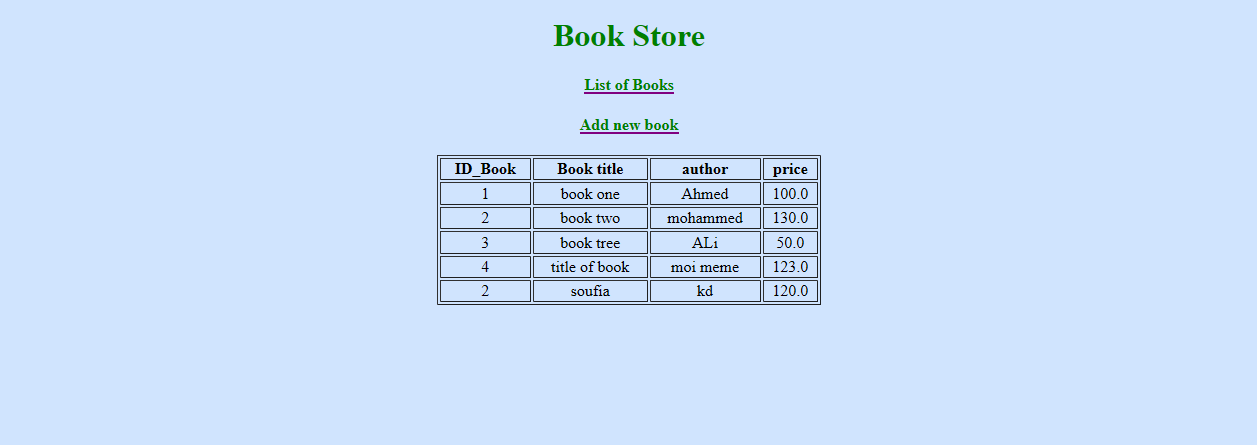
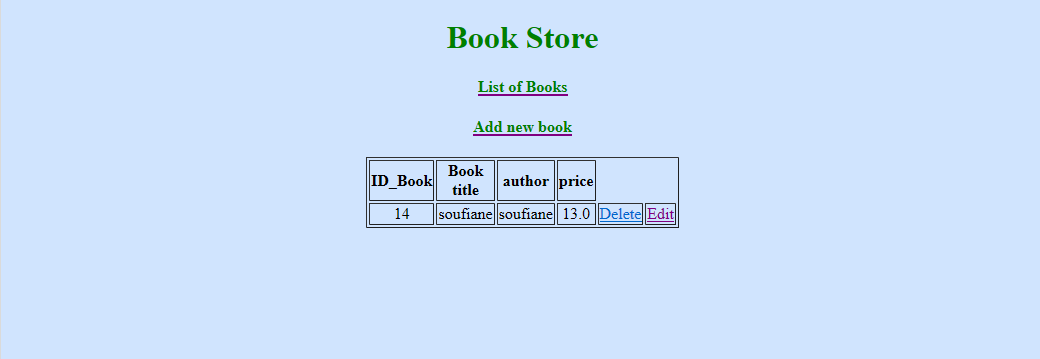
Last Commit

Changed region(s): [[0.3385, 0.337, 0.6769, 0.7047], [0.4308, 0.0613, 0.5846, 0.3064]]

diff --git a/WebContent/css/style.css b/WebContent/css/style.css
@@ -1,26 +1,22 @@
-
-body
-{
-background-color:#d0e4fe;
-align-content: center;
-text-align: center;
-align-self: center;
-}
-.title{
-	color:green;
-
-}
-.subtittle{
-	color:green;
-}
-table{
-	margin-left: auto;
-    margin-right: auto;
- 
+body {
+	background-color: #d0e4fe;
+	align-content: center;
 	text-align: center;
-	border:1;
-	width: 30%;
-	
+	align-self: center;
 }
 
- 
+.title {
+	color: green;
+}
+
+.subtittle {
+	color: green;
+}
+
+table {
+	margin-left: auto;
+	margin-right: auto;
+	text-align: center;
+	border: 1;
+	width: 30%;
+}

diff --git a/src/com/books/ServletController.java b/src/com/books/ServletController.java
@@ -1,14 +1,20 @@
+/*
+############################################################
+#             ELAAMRANI SOUFIANE                           #
+#      DATABASE(books.sql) in the same project file        #
+#    first CRUD application with MySQL,JSP,Servlet,EL      #
+# 														   #
+############################################################
+*/
+
 package com.books;
+
 import com.dao.*;
 
 import java.io.IOException;
-import java.io.PrintWriter;
 import java.sql.SQLException;
-import java.util.ArrayList;
-
 import javax.servlet.RequestDispatcher;
 import javax.servlet.ServletException;
-import javax.servlet.annotation.WebServlet;
 import javax.servlet.http.HttpServlet;
 import javax.servlet.http.HttpServletRequest;
 import javax.servlet.http.HttpServletResponse;
@@ -22,35 +28,40 @@ public class ServletController extends HttpServlet {
 	private BookDao bookDao;
 
 	/**
-	 * @throws SQLException 
-	 * @throws ClassNotFoundException 
+	 * @throws SQLException
+	 * @throws ClassNotFoundException
 	 * @see HttpServlet#HttpServlet()
 	 */
 
 	public ServletController() throws SQLException, ClassNotFoundException {
 		super();
 		bookDao = new BookDao();
-		//booksList.add(new Book(3, "soui", "afd", 133));
 	}
 
 	protected void doGet(HttpServletRequest request, HttpServletResponse response)
 			throws ServletException, IOException {
-		/*
-		 * PrintWriter out = response.getWriter(); String name=
-		 * request.getParameter("name"); out.println("Welcome "+name);
-		 */
 		String action = request.getPathInfo();
 		System.out.println(action);
 		if (action.equals("/new")) {
 			getPageNewAdd(request, response);
 
-		}else if (action.equals("/delete")) {
-			deleteBook(Integer.parseInt(request.getParameter("id")),request,response);
-		} 
+		} else if (action.equals("/delete")) {
+			deleteBook(Integer.parseInt(request.getParameter("id")), request, response);
+		} else if (action.equals("/update")) {
+			try {
+				request.setAttribute("book", bookDao.getItembyID(Integer.parseInt(request.getParameter("id"))));
+			} catch (NumberFormatException | ClassNotFoundException | SQLException e) {
+				// TODO Auto-generated catch block
+				e.printStackTrace();
+			}
+
+			RequestDispatcher disp = request.getRequestDispatcher("/updatepage.jsp");
+			disp.forward(request, response);
+		}
+
 		else {
 			showBooks(request, response);
 		}
-		
 
 	}
 
@@ -61,33 +72,45 @@ public class ServletController extends HttpServlet {
 		if (action.equals("/insert")) {
 			addBooks(request, response);
 			response.sendRedirect("index");
+		} else if (action.equals("/updateitem")) {
+
+			try {
+				updateBook(Integer.parseInt(request.getParameter("id")),
+						new Book(Integer.parseInt(request.getParameter("id")), request.getParameter("title"),
+								request.getParameter("author"), Double.parseDouble(request.getParameter("price"))),
+						response);
+
+			} catch (NumberFormatException | ClassNotFoundException | SQLException e) {
+				// TODO Auto-generated catch block e.printStackTrace(); }
+
 			}
+
+		}
 	}
 
-	private void showBooks(HttpServletRequest request, HttpServletResponse response) throws ServletException, IOException {
-		 
-	      try {
-	    	  request.setAttribute("book_list", bookDao.showAllItems());
+	private void showBooks(HttpServletRequest request, HttpServletResponse response)
+			throws ServletException, IOException {
+
+		try {
+			request.setAttribute("book_list", bookDao.showAllItems());
 		} catch (ClassNotFoundException | SQLException e) {
 			// TODO Auto-generated catch block
 			e.printStackTrace();
 		}
-	     
-		 
+
 		RequestDispatcher disp = request.getRequestDispatcher("/index.jsp");
 		disp.forward(request, response);
 	}
 
 	private void addBooks(HttpServletRequest request, HttpServletResponse response) {
 		try {
-			bookDao.insertItem(new Book(
-					(String) request.getParameter("title"), (String) request.getParameter("author"),
+			bookDao.insertItem(new Book((String) request.getParameter("title"), (String) request.getParameter("author"),
 					Double.parseDouble((String) request.getParameter("price"))));
 		} catch (ClassNotFoundException | SQLException e) {
 			// TODO Auto-generated catch block
 			e.printStackTrace();
 		}
-		
+
 	}
 
 	private void getPageNewAdd(HttpServletRequest request, HttpServletResponse response)
@@ -95,14 +118,24 @@ public class ServletController extends HttpServlet {
 		RequestDispatcher disp = request.getRequestDispatcher("/addnew.jsp");
 		disp.forward(request, response);
 	}
-	private void deleteBook(int id,HttpServletRequest request,HttpServletResponse respense) {
-	try {
-		bookDao.delete(id);
-		respense.sendRedirect("index");
-	} catch (ClassNotFoundException | SQLException | IOException e) {
-		// TODO Auto-generated catch block
-		e.printStackTrace();
+
+	private void deleteBook(int id, HttpServletRequest request, HttpServletResponse respense) {
+		try {
+			bookDao.delete(id);
+			respense.sendRedirect("index");
+		} catch (ClassNotFoundException | SQLException | IOException e) {
+			// TODO Auto-generated catch block
+			e.printStackTrace();
+		}
+
 	}
-	
-	}	
+
+	private void updateBook(int id, Book book, HttpServletResponse respense)
+			throws ClassNotFoundException, SQLException, IOException {
+
+		bookDao.update(id, book);
+		respense.sendRedirect("index");
+
+	}
+
 }

diff --git a/src/com/dao/BookDao.java b/src/com/dao/BookDao.java
@@ -8,6 +8,8 @@ import java.sql.ResultSet;
 import java.sql.Statement;
 import java.util.ArrayList;
 
+import javax.servlet.RequestDispatcher;
+
 import com.books.Book;
 
 public class BookDao {
@@ -79,8 +81,8 @@ public class BookDao {
 		}
 
 	}
-	
-	public void delete(int id) throws ClassNotFoundException, SQLException{
+
+	public void delete(int id) throws ClassNotFoundException, SQLException {
 		this.connect();
 		String sql = "DELETE FROM books WHERE id=?";
 		try {
@@ -89,11 +91,47 @@ public class BookDao {
 			stm.executeUpdate();
 			stm.close();
 			this.disconnect();
-			
+
 		} catch (SQLException e) {
 			// TODO Auto-generated catch block
 			e.printStackTrace();
-		}	
+		}
 	}
+
+	public void update(int id,Book book) throws ClassNotFoundException, SQLException {
+		this.connect();
+		String sql = "UPDATE books SET title=?,author=?,price=? WHERE id=?";
+		try {
+			PreparedStatement stm = JDBCConnection.prepareStatement(sql);
+			stm.setString(1, book.getTitle());
+			stm.setString(2, book.getAuthor());
+			stm.setDouble(3, book.getPrice());
+			stm.setInt(4, book.getId());
+			stm.executeUpdate();
+			stm.close();
+			this.disconnect();
+		} catch (SQLException e) {
+			// TODO Auto-generated catch block
+			e.printStackTrace();
+		}
+
+	}
+	public Book getItembyID(int id) throws ClassNotFoundException, SQLException {
+		this.connect();
+		Book book=null;
+		String sql = "SELECT * FROM books where id=?";
+		PreparedStatement stm=JDBCConnection.prepareStatement(sql);
+		stm.setInt(1, id);
+		ResultSet rs = stm.executeQuery();
+		while (rs.next()) {
+			book=new Book(rs.getInt("id"),rs.getString("title"), rs.getString("author"), rs.getDouble("price"));		
+		}
+		stm.close();
+		rs.close();
+		this.disconnect();
+		return book;
+	}
+
+	
 
 }

diff --git a/src/com/books/Book.java b/src/com/books/Book.java
@@ -5,6 +5,7 @@ public class Book {
 	private String title;
 	private String author;
 	private double price;
+
 	public Book(int id, String title, String author, double d) {
 		super();
 		this.id = id;
@@ -12,7 +13,7 @@ public class Book {
 		this.author = author;
 		this.price = d;
 	}
-	
+
 	public Book(String title, String author, double price) {
 		super();
 		this.title = title;
@@ -23,30 +24,37 @@ public class Book {
 	public Book() {
 		super();
 	}
+
 	public int getId() {
 		return id;
 	}
+
 	public void setId(int id) {
 		this.id = id;
 	}
+
 	public String getTitle() {
 		return title;
 	}
+
 	public void setTitle(String title) {
 		this.title = title;
 	}
+
 	public String getAuthor() {
 		return author;
 	}
+
 	public void setAuthor(String author) {
 		this.author = author;
 	}
+
 	public Double getPrice() {
 		return price;
 	}
+
 	public void setPrice(double d) {
 		this.price = d;
 	}
-	
 
 }
